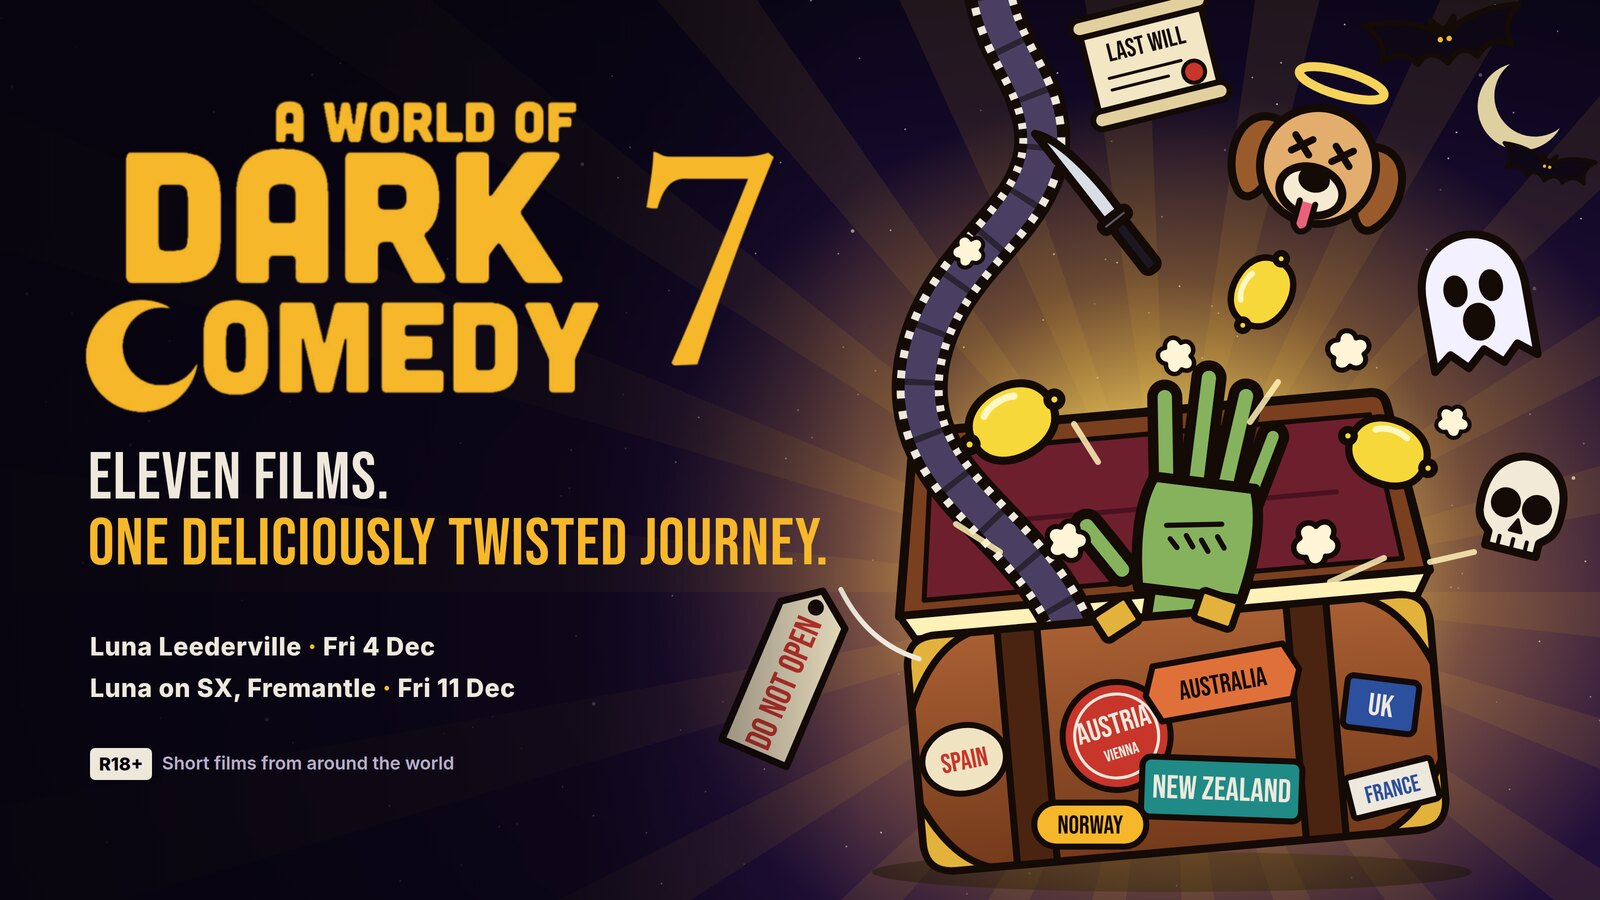
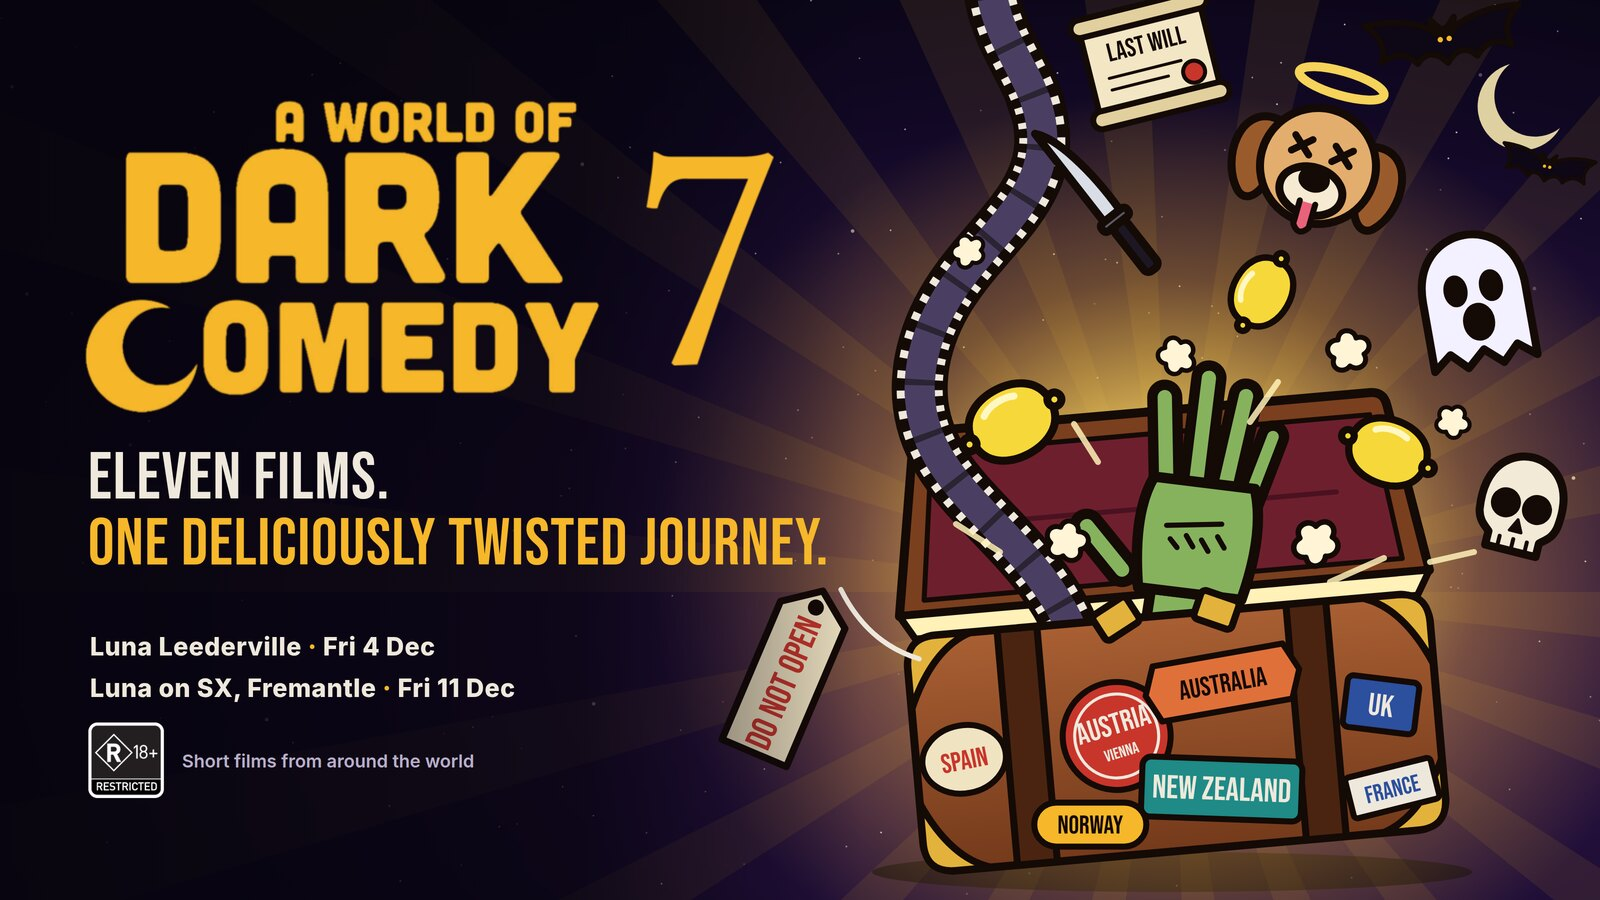
WoDC 7: donation link, Luna ticket links, official R18+ mark, vote form script

Changed region(s): [[0.0312, 0.7778, 0.3125, 0.9022]]

diff --git a/theme/style.css b/theme/style.css
@@ -59,6 +59,9 @@ section.wrap { padding-top: 32px; padding-bottom: 32px; }
 .screenings { list-style: none; padding: 0; margin: 16px 0; display: grid; gap: 12px; grid-template-columns: repeat(auto-fit, minmax(280px, 1fr)); }
 .screening { display: flex; align-items: center; justify-content: space-between; gap: 12px; background: var(--surface-2); border-radius: var(--radius); padding: 16px 18px; border-left: 4px solid var(--accent); }
 .screening p { margin: 0; }
+.section-head { display: flex; align-items: center; justify-content: space-between; gap: 16px; }
+.rating { width: 64px; height: auto; flex: none; }
+.rating-text { flex: none; font-weight: 700; border: 2px solid currentColor; border-radius: 6px; padding: 2px 8px; }
 .screening-venue { font-weight: 700; font-size: 1.1rem; }
 .screening-when { color: var(--muted); }
 .poster-grid { display: grid; gap: 12px; grid-template-columns: repeat(auto-fill, minmax(190px, 1fr)); margin: 16px 0 24px; }

diff --git a/build.py b/build.py
@@ -149,6 +149,17 @@ def screenings(f):
     return '<ul class="screenings">' + ''.join(rows) + '</ul>' if rows else ''
 
 
+def rating_mark(f):
+    """The official classification mark for the festival's rating ("R18+" -> theme/rating-r18.png), else the rating as text."""
+    rating = f.get('rating')
+    if not rating:
+        return ''
+    name = 'rating-' + re.sub(r'[^a-z0-9]', '', rating.lower()) + '.png'
+    if (ROOT / 'theme' / name).exists():
+        return f'<img class="rating" src="/theme/{name}" alt="Classification: {esc(rating)}" width="64" height="64">'
+    return f'<span class="rating-text">{esc(rating)}</span>'
+
+
 def trailer(f):
     if not f.get('trailer'):
         return ''
@@ -216,12 +227,12 @@ def build_home():
     body = f'''
 <section class="hero">{img(f["artwork"], f["title"] + " – festival artwork", lazy=False)}</section>
 <section class="wrap intro">
-  <p class="eyebrow">{esc(f["title"])}{" · " + esc(f["rating"]) if f.get("rating") else ""}</p>
+  <p class="eyebrow">{esc(f["title"])}</p>
   <h1>{esc(f.get("intro") or f["title"])}</h1>
   <div class="blurb">{blurb}</div>
 </section>
 <section class="band" id="tickets">
-  <div class="wrap"><h2>Screenings &amp; tickets</h2>{screenings(f)}</div>
+  <div class="wrap"><div class="section-head"><h2>Screenings &amp; tickets</h2>{rating_mark(f)}</div>{screenings(f)}</div>
 </section>
 <section class="wrap">
   <h2>The {len(f["films"])} films</h2>
@@ -247,8 +258,8 @@ def build_programme():
     f = CURRENT
     body = f'''
 <section class="wrap page-head">
-  <p class="eyebrow">{esc(f["title"])}{" · " + esc(f["rating"]) if f.get("rating") else ""}</p>
-  <h1>Programme</h1>
+  <p class="eyebrow">{esc(f["title"])}</p>
+  <div class="section-head"><h1>Programme</h1>{rating_mark(f)}</div>
   <p class="lead">{len(f["films"])} short films, in screening order.</p>
   {screenings(f)}
 </section>
@@ -347,7 +358,7 @@ Try the <a href="/programme/">programme</a>, the <a href="/archive/">archive</a>
 
 def copy_files():
     (OUT / 'theme').mkdir(parents=True)
-    for name in ('style.css', 'favicon.png'):
+    for name in ['style.css', 'favicon.png'] + sorted(p.name for p in (ROOT / 'theme').glob('rating-*.png')):
         shutil.copy(ROOT / 'theme' / name, OUT / 'theme' / name)
     shutil.copytree(ROOT / 'festivals', OUT / 'festivals', ignore=shutil.ignore_patterns('festival.json', 'print'))  # print/ is for printers, not the web
     for extra in ('CNAME',):  # custom-domain file for GitHub Pages, if present

diff --git a/AGENTS.md b/AGENTS.md
@@ -69,7 +69,7 @@ Copy the structure of `festivals/2026-wodc7/festival.json`. Fields, in this orde
 | `edition` | yes | `8` |
 | `year` | yes | `2027` |
 | `title` | yes | `"A World of Dark Comedy 8"` |
-| `rating` | no | `"R18+"` |
+| `rating` | no | `"R18+"`. Shown as the official classification mark when `theme/rating-r18.png` (for R18+) exists; otherwise as text |
 | `tagline` | no | One line for the archive (e.g. `"De-light after times of darkness."`) |
 | `intro` | no | Home-page headline, e.g. `"A World of Dark Comedy 8 is on its way to you!"` |
 | `blurb` | no | List of paragraphs for the home page. May contain `<strong>…</strong>`; nothing else |
@@ -130,8 +130,9 @@ In `site.json` set `"current_festival": "2027-wodc8"`. The home page, programme 
 
 ### 5. Things to check every year
 
-* `site.json` → `links.vote_form`: the Google Form for audience voting. Ask the owner whether it is still the right
-  form (it may be a new one each year). The QR code points at `/vote/`, so it never changes.
+* `site.json` → `links.vote_form`: the Google Form for audience voting. Make a new form each year: update the films
+  in `docs/vote-form.gs` and give it to the owner to run (instructions at its top), then put the public link it prints
+  in `site.json`. Last year’s form is usually closed. The QR code points at `/vote/`, so it never changes.
 * `site.json` → `links.venue_form`: the venue registration PDF on overthefence.com.au (it has the year in its name).
 * Ticket links in `screenings` (Luna usually publishes them late; until then use their “coming soon” page).
 * `pages/enter.html`: entry rules (“Completed since …”).

diff --git a/README.md b/README.md
@@ -17,11 +17,11 @@ festivals/                one folder per festival, all built the same way
     programme.pdf         (if any) the printed programme
     print/                (if any) logo and artwork files for the printer, not published
 pages/                    About, Contact, Donate, Submit a film (plain HTML)
-theme/                    page shell (base.html), styles (style.css), favicon
+theme/                    page shell (base.html), styles (style.css), favicon, official classification mark (rating-r18.png)
 print/                    QR codes for printed material: vote and donate (they never change)
 old-wordpress-urls.json   old WordPress addresses and where they now lead
 build.py                  builds the site into _site/
-docs/                     notes: fixes to the old text, improvements, check of the old site
+docs/                     notes: fixes to the old text, improvements, check of the old site; vote-form.gs makes the vote form
 AGENTS.md                 step-by-step instructions for next year's festival (for an AI assistant or a person)
 ```
 
